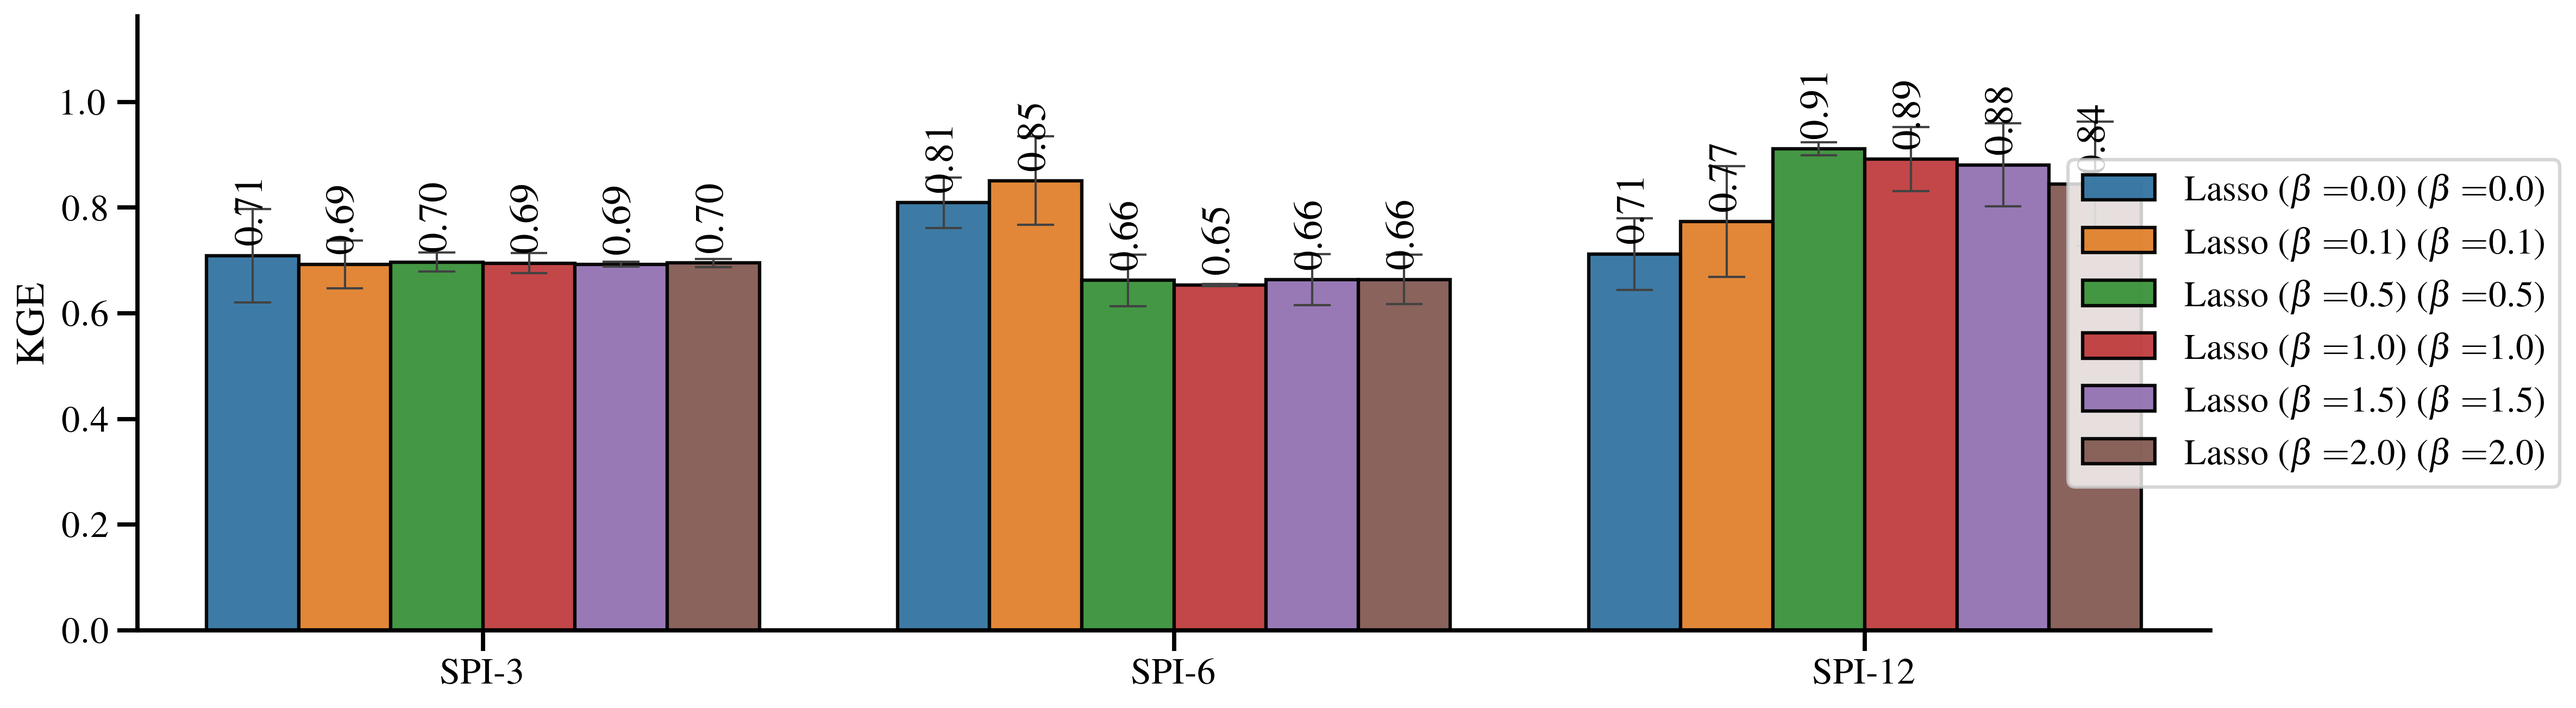
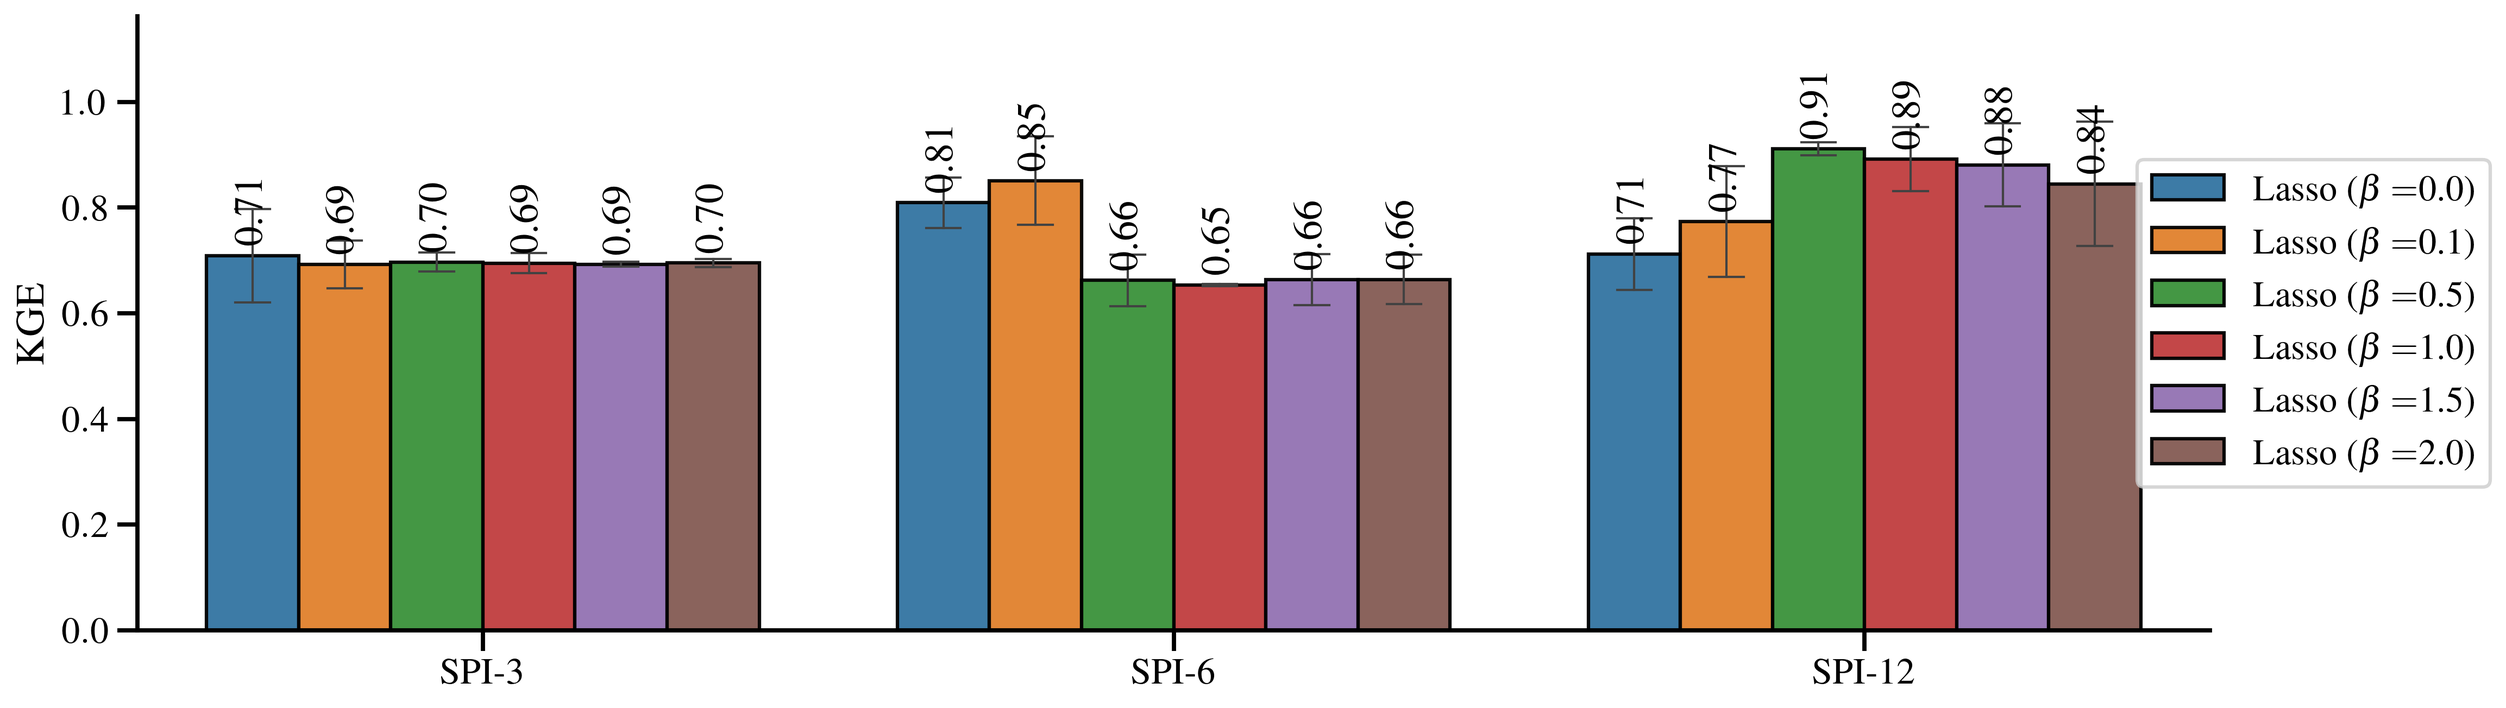
goliatt sáb 15 fev 2025 15:34:42 -03

diff --git a/sp__comparison_datasets_table.tex b/sp__comparison_datasets_table.tex
@@ -4,26 +4,26 @@
 \label{sp__comparison_datasets_table}
 \begin{tabular}{rrrrrrrrrrr}
 \toprule
-Dataset &             Estimator &  beta &                R$^2$ &                  WI &               RRMSE &                 RMSE &                  MAE &                  MAPE &                  NSE &                  KGE \\
+Dataset & Estimator &  beta &                R$^2$ &                  WI &               RRMSE &                 RMSE &                  MAE &                  MAPE &                  NSE &                  KGE \\
 \midrule
-  SPI-3 & Lasso ($\beta = $0.0) &   0.0 &        0.876 (0.002) &        0.966 (0.00) &        2.36 (0.020) &        0.353 (0.003) &        0.273 (0.002) &          70.94 (1.50) &        0.876 (0.002) & { \bf 0.709} (0.088) \\
-  SPI-3 & Lasso ($\beta = $0.1) &   0.1 &        0.877 (0.002) & { \bf 0.967} (0.00) &        2.35 (0.015) &        0.351 (0.002) &        0.272 (0.001) &         70.25 (0.808) &        0.877 (0.002) &        0.693 (0.045) \\
-  SPI-3 & Lasso ($\beta = $0.5) &   0.5 &  { \bf 0.878} (0.00) &        0.967 (0.00) & { \bf 2.34} (0.004) &  { \bf 0.350} (0.00) &        0.272 (0.001) &         70.17 (0.503) &  { \bf 0.878} (0.00) &        0.697 (0.017) \\
-  SPI-3 & Lasso ($\beta = $1.0) &   1.0 &         0.878 (0.00) &        0.967 (0.00) &        2.34 (0.007) &        0.350 (0.001) &        0.272 (0.001) &  { \bf 70.10} (0.614) &         0.878 (0.00) &        0.695 (0.019) \\
-  SPI-3 & Lasso ($\beta = $1.5) &   1.5 &         0.878 (0.00) &        0.967 (0.00) &         2.34 (0.00) &         0.350 (0.00) &  { \bf 0.271} (0.00) &         70.27 (0.436) &         0.878 (0.00) &        0.693 (0.005) \\
-  SPI-3 & Lasso ($\beta = $2.0) &   2.0 &         0.878 (0.00) &        0.967 (0.00) &        2.34 (0.002) &         0.350 (0.00) &        0.272 (0.001) &         70.13 (0.573) &         0.878 (0.00) &        0.695 (0.008) \\
-  SPI-6 & Lasso ($\beta = $0.0) &   0.0 &        0.897 (0.002) & { \bf 0.973} (0.00) & { \bf 1.70} (0.018) & { \bf 0.353} (0.004) &        0.292 (0.004) &         101.98 (1.56) &        0.897 (0.002) &        0.809 (0.047) \\
-  SPI-6 & Lasso ($\beta = $0.1) &   0.1 & { \bf 0.898} (0.006) &       0.973 (0.001) &        1.70 (0.046) &        0.353 (0.010) &        0.291 (0.007) &  { \bf 100.30} (3.45) & { \bf 0.898} (0.006) & { \bf 0.851} (0.083) \\
-  SPI-6 & Lasso ($\beta = $0.5) &   0.5 &        0.895 (0.002) &        0.972 (0.00) &        1.72 (0.015) &        0.357 (0.003) & { \bf 0.286} (0.002) &         109.67 (2.60) &        0.895 (0.002) &        0.662 (0.048) \\
-  SPI-6 & Lasso ($\beta = $1.0) &   1.0 &         0.895 (0.00) &        0.972 (0.00) &        1.72 (0.001) &         0.357 (0.00) &         0.286 (0.00) &        110.15 (0.389) &         0.895 (0.00) &        0.654 (0.002) \\
-  SPI-6 & Lasso ($\beta = $1.5) &   1.5 &        0.895 (0.001) &        0.972 (0.00) &        1.72 (0.011) &        0.357 (0.002) &         0.286 (0.00) &         109.64 (2.50) &        0.895 (0.001) &        0.663 (0.048) \\
-  SPI-6 & Lasso ($\beta = $2.0) &   2.0 &        0.895 (0.001) &        0.972 (0.00) &        1.72 (0.010) &        0.357 (0.002) &         0.286 (0.00) &         109.52 (2.46) &        0.895 (0.001) &        0.664 (0.046) \\
- SPI-12 & Lasso ($\beta = $0.0) &   0.0 &        0.902 (0.003) &       0.972 (0.001) &        1.22 (0.022) &        0.349 (0.006) &        0.285 (0.005) &         123.01 (8.32) &        0.902 (0.003) &        0.712 (0.067) \\
- SPI-12 & Lasso ($\beta = $0.1) &   0.1 &        0.907 (0.005) &       0.974 (0.002) &        1.19 (0.032) &        0.340 (0.009) &        0.278 (0.007) &         117.01 (5.16) &        0.907 (0.005) &        0.774 (0.103) \\
- SPI-12 & Lasso ($\beta = $0.5) &   0.5 &  { \bf 0.914} (0.00) & { \bf 0.977} (0.00) & { \bf 1.14} (0.002) &  { \bf 0.326} (0.00) &  { \bf 0.268} (0.00) &         113.14 (1.01) &  { \bf 0.914} (0.00) & { \bf 0.911} (0.012) \\
- SPI-12 & Lasso ($\beta = $1.0) &   1.0 &        0.913 (0.003) &        0.977 (0.00) &        1.15 (0.018) &        0.328 (0.005) &        0.269 (0.003) &         112.01 (5.49) &        0.913 (0.003) &        0.892 (0.060) \\
- SPI-12 & Lasso ($\beta = $1.5) &   1.5 &        0.913 (0.004) &       0.977 (0.001) &        1.15 (0.025) &        0.329 (0.007) &        0.269 (0.005) &         111.30 (6.51) &        0.913 (0.004) &        0.881 (0.077) \\
- SPI-12 & Lasso ($\beta = $2.0) &   2.0 &        0.911 (0.006) &       0.977 (0.001) &        1.16 (0.038) &        0.332 (0.011) &        0.271 (0.006) & { \bf 106.86} (11.45) &        0.911 (0.006) &        0.845 (0.117) \\
+  SPI-3 &     Lasso &   0.0 &        0.876 (0.002) &        0.966 (0.00) &        2.36 (0.020) &        0.353 (0.003) &        0.273 (0.002) &          70.94 (1.50) &        0.876 (0.002) & { \bf 0.709} (0.088) \\
+  SPI-3 &     Lasso &   0.1 &        0.877 (0.002) & { \bf 0.967} (0.00) &        2.35 (0.015) &        0.351 (0.002) &        0.272 (0.001) &         70.25 (0.808) &        0.877 (0.002) &        0.693 (0.045) \\
+  SPI-3 &     Lasso &   0.5 &  { \bf 0.878} (0.00) &        0.967 (0.00) & { \bf 2.34} (0.004) &  { \bf 0.350} (0.00) &        0.272 (0.001) &         70.17 (0.503) &  { \bf 0.878} (0.00) &        0.697 (0.017) \\
+  SPI-3 &     Lasso &   1.0 &         0.878 (0.00) &        0.967 (0.00) &        2.34 (0.007) &        0.350 (0.001) &        0.272 (0.001) &  { \bf 70.10} (0.614) &         0.878 (0.00) &        0.695 (0.019) \\
+  SPI-3 &     Lasso &   1.5 &         0.878 (0.00) &        0.967 (0.00) &         2.34 (0.00) &         0.350 (0.00) &  { \bf 0.271} (0.00) &         70.27 (0.436) &         0.878 (0.00) &        0.693 (0.005) \\
+  SPI-3 &     Lasso &   2.0 &         0.878 (0.00) &        0.967 (0.00) &        2.34 (0.002) &         0.350 (0.00) &        0.272 (0.001) &         70.13 (0.573) &         0.878 (0.00) &        0.695 (0.008) \\
+  SPI-6 &     Lasso &   0.0 &        0.897 (0.002) & { \bf 0.973} (0.00) & { \bf 1.70} (0.018) & { \bf 0.353} (0.004) &        0.292 (0.004) &         101.98 (1.56) &        0.897 (0.002) &        0.809 (0.047) \\
+  SPI-6 &     Lasso &   0.1 & { \bf 0.898} (0.006) &       0.973 (0.001) &        1.70 (0.046) &        0.353 (0.010) &        0.291 (0.007) &  { \bf 100.30} (3.45) & { \bf 0.898} (0.006) & { \bf 0.851} (0.083) \\
+  SPI-6 &     Lasso &   0.5 &        0.895 (0.002) &        0.972 (0.00) &        1.72 (0.015) &        0.357 (0.003) & { \bf 0.286} (0.002) &         109.67 (2.60) &        0.895 (0.002) &        0.662 (0.048) \\
+  SPI-6 &     Lasso &   1.0 &         0.895 (0.00) &        0.972 (0.00) &        1.72 (0.001) &         0.357 (0.00) &         0.286 (0.00) &        110.15 (0.389) &         0.895 (0.00) &        0.654 (0.002) \\
+  SPI-6 &     Lasso &   1.5 &        0.895 (0.001) &        0.972 (0.00) &        1.72 (0.011) &        0.357 (0.002) &         0.286 (0.00) &         109.64 (2.50) &        0.895 (0.001) &        0.663 (0.048) \\
+  SPI-6 &     Lasso &   2.0 &        0.895 (0.001) &        0.972 (0.00) &        1.72 (0.010) &        0.357 (0.002) &         0.286 (0.00) &         109.52 (2.46) &        0.895 (0.001) &        0.664 (0.046) \\
+ SPI-12 &     Lasso &   0.0 &        0.902 (0.003) &       0.972 (0.001) &        1.22 (0.022) &        0.349 (0.006) &        0.285 (0.005) &         123.01 (8.32) &        0.902 (0.003) &        0.712 (0.067) \\
+ SPI-12 &     Lasso &   0.1 &        0.907 (0.005) &       0.974 (0.002) &        1.19 (0.032) &        0.340 (0.009) &        0.278 (0.007) &         117.01 (5.16) &        0.907 (0.005) &        0.774 (0.103) \\
+ SPI-12 &     Lasso &   0.5 &  { \bf 0.914} (0.00) & { \bf 0.977} (0.00) & { \bf 1.14} (0.002) &  { \bf 0.326} (0.00) &  { \bf 0.268} (0.00) &         113.14 (1.01) &  { \bf 0.914} (0.00) & { \bf 0.911} (0.012) \\
+ SPI-12 &     Lasso &   1.0 &        0.913 (0.003) &        0.977 (0.00) &        1.15 (0.018) &        0.328 (0.005) &        0.269 (0.003) &         112.01 (5.49) &        0.913 (0.003) &        0.892 (0.060) \\
+ SPI-12 &     Lasso &   1.5 &        0.913 (0.004) &       0.977 (0.001) &        1.15 (0.025) &        0.329 (0.007) &        0.269 (0.005) &         111.30 (6.51) &        0.913 (0.004) &        0.881 (0.077) \\
+ SPI-12 &     Lasso &   2.0 &        0.911 (0.006) &       0.977 (0.001) &        1.16 (0.038) &        0.332 (0.011) &        0.271 (0.006) & { \bf 106.86} (11.45) &        0.911 (0.006) &        0.845 (0.117) \\
 \bottomrule
 \end{tabular}
 \end{table}

diff --git a/expressions.tex b/expressions.tex
@@ -1,24 +1,24 @@
 \begin{tabular}{llrrl}
 \toprule
-Dataset &                            Parameters &  No. var. &  RMSE &                                         Expression \\
+Dataset &            Parameters &  No. var. &  RMSE &                                         Expression \\
 \midrule
-  SPI-3 & Lasso (\$\textbackslash beta = \$0.0) (\$\textbackslash beta = \$0.0) &         5 & 0.348 & x\_\{1\} \textbackslash cdot \textbackslash left(0.065438 x\_\{4\} - 0.031779 x\_\{... \\
-  SPI-3 & Lasso (\$\textbackslash beta = \$0.1) (\$\textbackslash beta = \$0.1) &         3 & 0.348 & 0.455642 x\_\{2\} + x\_\{4\} \textbackslash cdot \textbackslash left(0.501748 - 0... \\
-  SPI-3 & Lasso (\$\textbackslash beta = \$0.5) (\$\textbackslash beta = \$0.5) &         3 & 0.347 & 0.449359 x\_\{2\} + 0.057424 x\_\{3\} + 0.475391 x\_\{4... \\
-  SPI-3 & Lasso (\$\textbackslash beta = \$1.0) (\$\textbackslash beta = \$1.0) &         4 & 0.347 & 0.447717 x\_\{2\} + x\_\{3\} \textbackslash cdot \textbackslash left(0.056808 - \textbackslash ... \\
-  SPI-3 & Lasso (\$\textbackslash beta = \$1.5) (\$\textbackslash beta = \$1.5) &         3 & 0.349 & 0.454934 x\_\{2\} + x\_\{4\} \textbackslash cdot \textbackslash left(0.502252 - \textbackslash ... \\
-  SPI-3 & Lasso (\$\textbackslash beta = \$2.0) (\$\textbackslash beta = \$2.0) &         2 & 0.349 &         0.451833 x\_\{2\} + 0.495976 x\_\{4\} + 0.016304 \\
-  SPI-6 & Lasso (\$\textbackslash beta = \$0.0) (\$\textbackslash beta = \$0.0) &         5 & 0.349 & x\_\{1\} \textbackslash cdot \textbackslash left(0.045872 x\_\{2\} + 0.020121 x\_\{... \\
-  SPI-6 & Lasso (\$\textbackslash beta = \$0.1) (\$\textbackslash beta = \$0.1) &         5 & 0.346 & x\_\{2\} \textbackslash cdot \textbackslash left(0.490102 - 0.017279 x\_\{3\}\textbackslash rig... \\
-  SPI-6 & Lasso (\$\textbackslash beta = \$0.5) (\$\textbackslash beta = \$0.5) &         3 & 0.346 & 0.490587 x\_\{2\} + 0.55039 x\_\{4\} - 0.107172 x\_\{5\}... \\
-  SPI-6 & Lasso (\$\textbackslash beta = \$1.0) (\$\textbackslash beta = \$1.0) &         3 & 0.357 & 0.481616 x\_\{2\} + x\_\{4\} \textbackslash cdot \textbackslash left(0.50263 + \textbackslash f... \\
-  SPI-6 & Lasso (\$\textbackslash beta = \$1.5) (\$\textbackslash beta = \$1.5) &         4 & 0.345 & x\_\{2\} \textbackslash cdot \textbackslash left(0.487884 - 0.003141 x\_\{3\}\textbackslash rig... \\
-  SPI-6 & Lasso (\$\textbackslash beta = \$2.0) (\$\textbackslash beta = \$2.0) &         3 & 0.346 & 0.490585 x\_\{2\} + 0.550387 x\_\{4\} - 0.107168 x\_\{5... \\
- SPI-12 & Lasso (\$\textbackslash beta = \$0.0) (\$\textbackslash beta = \$0.0) &         5 & 0.328 & x\_\{1\} \textbackslash cdot \textbackslash left(0.051353 x\_\{4\} - 0.038817 x\_\{... \\
- SPI-12 & Lasso (\$\textbackslash beta = \$0.1) (\$\textbackslash beta = \$0.1) &         4 & 0.324 & 0.470079 x\_\{2\} - \textbackslash frac\{0.000222 x\_\{3\}\}\{x\_\{4\}\} +... \\
- SPI-12 & Lasso (\$\textbackslash beta = \$0.5) (\$\textbackslash beta = \$0.5) &         3 & 0.325 & 0.476589 x\_\{2\} + 0.588741 x\_\{4\} - 0.15268 x\_\{5\}... \\
- SPI-12 & Lasso (\$\textbackslash beta = \$1.0) (\$\textbackslash beta = \$1.0) &         3 & 0.325 & 0.47658 x\_\{2\} + 0.588731 x\_\{4\} - 0.152665 x\_\{5\}... \\
- SPI-12 & Lasso (\$\textbackslash beta = \$1.5) (\$\textbackslash beta = \$1.5) &         3 & 0.325 & 0.475971 x\_\{2\} + 0.587893 x\_\{4\} - 0.151498 x\_\{5... \\
- SPI-12 & Lasso (\$\textbackslash beta = \$2.0) (\$\textbackslash beta = \$2.0) &         4 & 0.319 & 0.466306 x\_\{2\} + 0.590777 x\_\{4\} + x\_\{5\} \textbackslash left(-... \\
+  SPI-3 & Lasso (\$\textbackslash beta = \$0.0) &         5 & 0.348 & x\_\{1\} \textbackslash cdot \textbackslash left(0.065438 x\_\{4\} - 0.031779 x\_\{... \\
+  SPI-3 & Lasso (\$\textbackslash beta = \$0.1) &         3 & 0.348 & 0.455642 x\_\{2\} + x\_\{4\} \textbackslash cdot \textbackslash left(0.501748 - 0... \\
+  SPI-3 & Lasso (\$\textbackslash beta = \$0.5) &         3 & 0.347 & 0.449359 x\_\{2\} + 0.057424 x\_\{3\} + 0.475391 x\_\{4... \\
+  SPI-3 & Lasso (\$\textbackslash beta = \$1.0) &         4 & 0.347 & 0.447717 x\_\{2\} + x\_\{3\} \textbackslash cdot \textbackslash left(0.056808 - \textbackslash ... \\
+  SPI-3 & Lasso (\$\textbackslash beta = \$1.5) &         3 & 0.349 & 0.454934 x\_\{2\} + x\_\{4\} \textbackslash cdot \textbackslash left(0.502252 - \textbackslash ... \\
+  SPI-3 & Lasso (\$\textbackslash beta = \$2.0) &         2 & 0.349 &         0.451833 x\_\{2\} + 0.495976 x\_\{4\} + 0.016304 \\
+  SPI-6 & Lasso (\$\textbackslash beta = \$0.0) &         5 & 0.349 & x\_\{1\} \textbackslash cdot \textbackslash left(0.045872 x\_\{2\} + 0.020121 x\_\{... \\
+  SPI-6 & Lasso (\$\textbackslash beta = \$0.1) &         5 & 0.346 & x\_\{2\} \textbackslash cdot \textbackslash left(0.490102 - 0.017279 x\_\{3\}\textbackslash rig... \\
+  SPI-6 & Lasso (\$\textbackslash beta = \$0.5) &         3 & 0.346 & 0.490587 x\_\{2\} + 0.55039 x\_\{4\} - 0.107172 x\_\{5\}... \\
+  SPI-6 & Lasso (\$\textbackslash beta = \$1.0) &         3 & 0.357 & 0.481616 x\_\{2\} + x\_\{4\} \textbackslash cdot \textbackslash left(0.50263 + \textbackslash f... \\
+  SPI-6 & Lasso (\$\textbackslash beta = \$1.5) &         4 & 0.345 & x\_\{2\} \textbackslash cdot \textbackslash left(0.487884 - 0.003141 x\_\{3\}\textbackslash rig... \\
+  SPI-6 & Lasso (\$\textbackslash beta = \$2.0) &         3 & 0.346 & 0.490585 x\_\{2\} + 0.550387 x\_\{4\} - 0.107168 x\_\{5... \\
+ SPI-12 & Lasso (\$\textbackslash beta = \$0.0) &         5 & 0.328 & x\_\{1\} \textbackslash cdot \textbackslash left(0.051353 x\_\{4\} - 0.038817 x\_\{... \\
+ SPI-12 & Lasso (\$\textbackslash beta = \$0.1) &         4 & 0.324 & 0.470079 x\_\{2\} - \textbackslash frac\{0.000222 x\_\{3\}\}\{x\_\{4\}\} +... \\
+ SPI-12 & Lasso (\$\textbackslash beta = \$0.5) &         3 & 0.325 & 0.476589 x\_\{2\} + 0.588741 x\_\{4\} - 0.15268 x\_\{5\}... \\
+ SPI-12 & Lasso (\$\textbackslash beta = \$1.0) &         3 & 0.325 & 0.47658 x\_\{2\} + 0.588731 x\_\{4\} - 0.152665 x\_\{5\}... \\
+ SPI-12 & Lasso (\$\textbackslash beta = \$1.5) &         3 & 0.325 & 0.475971 x\_\{2\} + 0.587893 x\_\{4\} - 0.151498 x\_\{5... \\
+ SPI-12 & Lasso (\$\textbackslash beta = \$2.0) &         4 & 0.319 & 0.466306 x\_\{2\} + 0.590777 x\_\{4\} + x\_\{5\} \textbackslash left(-... \\
 \bottomrule
 \end{tabular}
